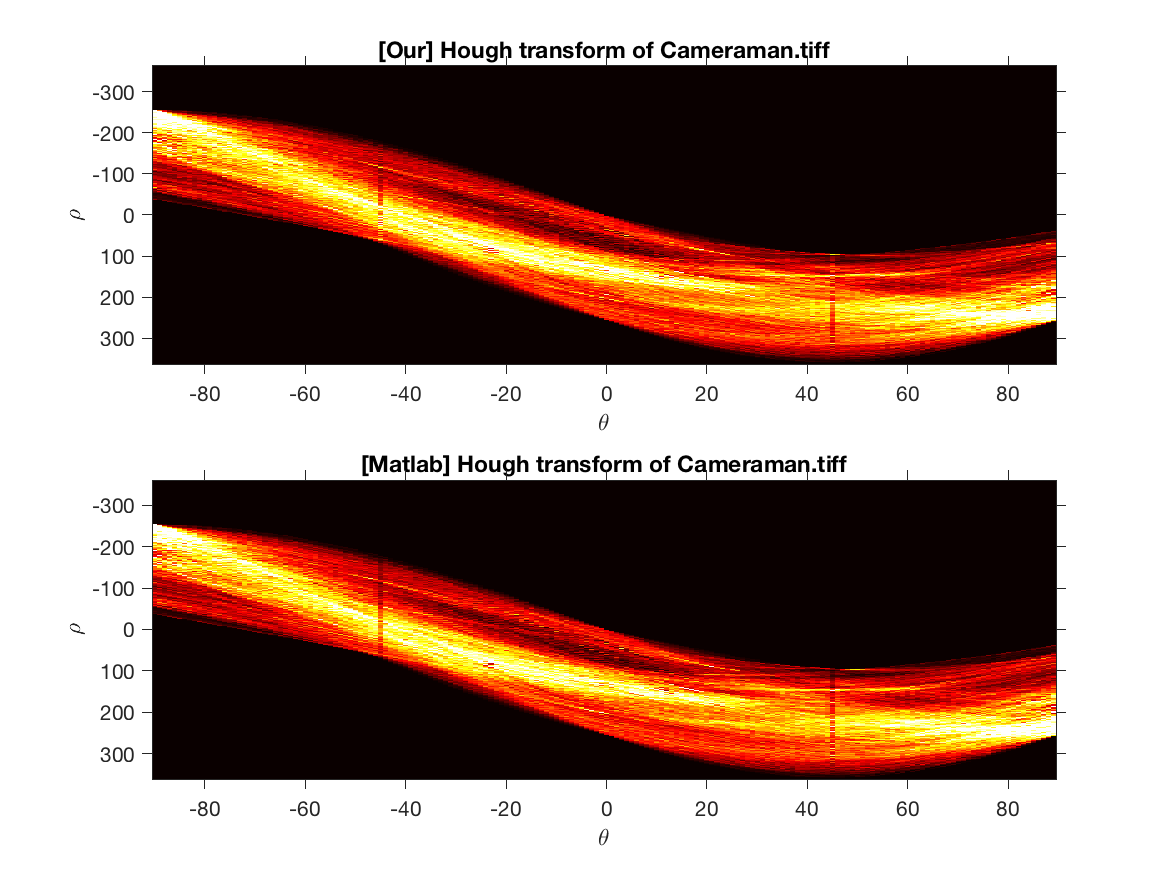
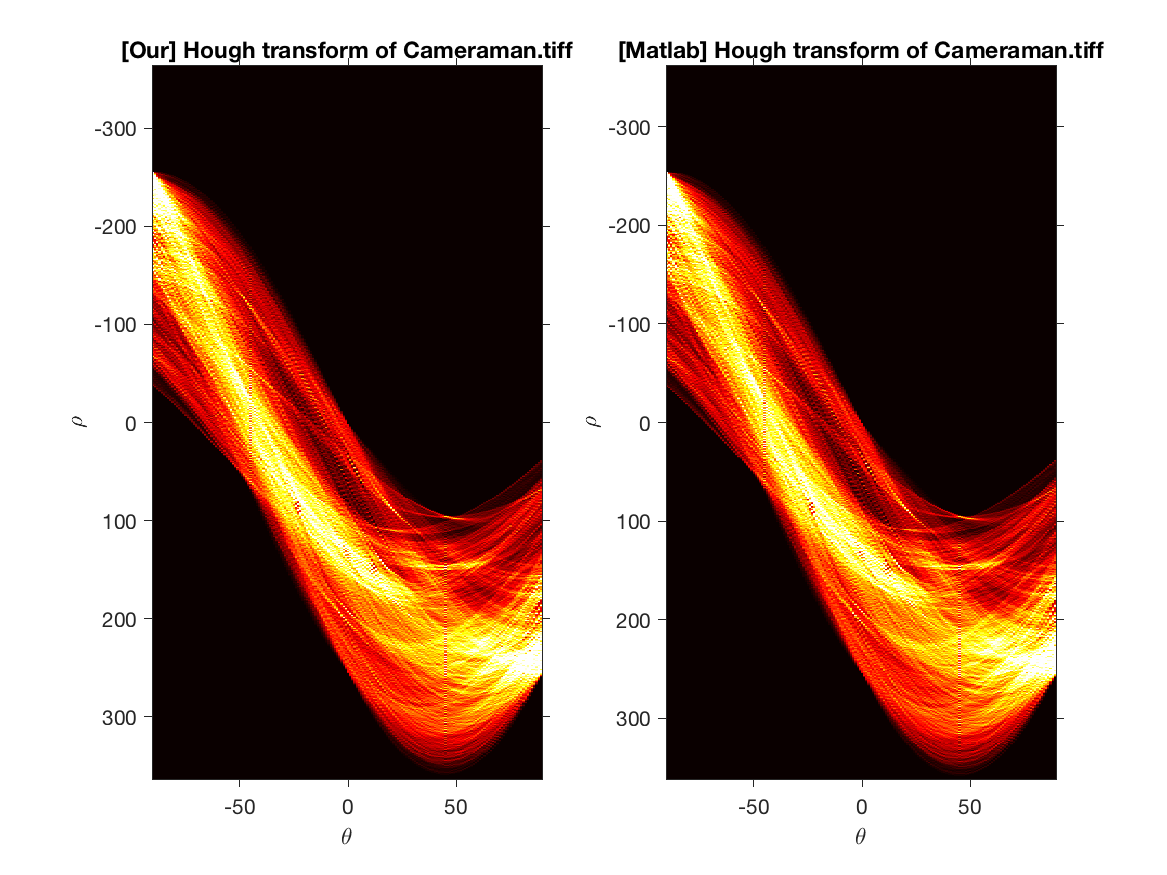
Lab 4 - Ex 2: cleanup

diff --git a/lab4/ex2/wrapper.m b/lab4/ex2/wrapper.m
@@ -13,7 +13,7 @@ edges = edge(cameraman, 'canny');
 
 % plot our implementation
 figure;
-subplot(2, 1, 1);
+subplot(1, 2, 1);
 imshow(imadjust(rescale(accumulator)), 'XData', theta, 'YData', rho, 'InitialMagnification', 'fit');
 title('[Our] Hough transform of Cameraman.tiff');
 xlabel('\theta');
@@ -24,7 +24,7 @@ hold on;
 colormap(gca, 'hot');
 
 % plot matlab implementation
-subplot(2, 1, 2);
+subplot(1, 2, 2);
 imshow(imadjust(rescale(accumulator_real)), 'XData', theta_real, 'YData', rho_real, 'InitialMagnification', 'fit');
 title('[Matlab] Hough transform of Cameraman.tiff');
 xlabel('\theta');

diff --git a/lab4/ex2/myhough.m b/lab4/ex2/myhough.m
@@ -6,7 +6,7 @@ function [accumulator, thetas, rhos] = myhough(edges)
     
     % the max distance of a line from the origin is the length of
     % diagonal of the image
-    max_rho = floor(max(size(edges)) * sqrt(2));
+    max_rho = ceil(sqrt(size(edges, 1) ^ 2 + size(edges, 2) ^ 2));
     rhos = -max_rho:1:max_rho;
     
     % initialize the accumulator
